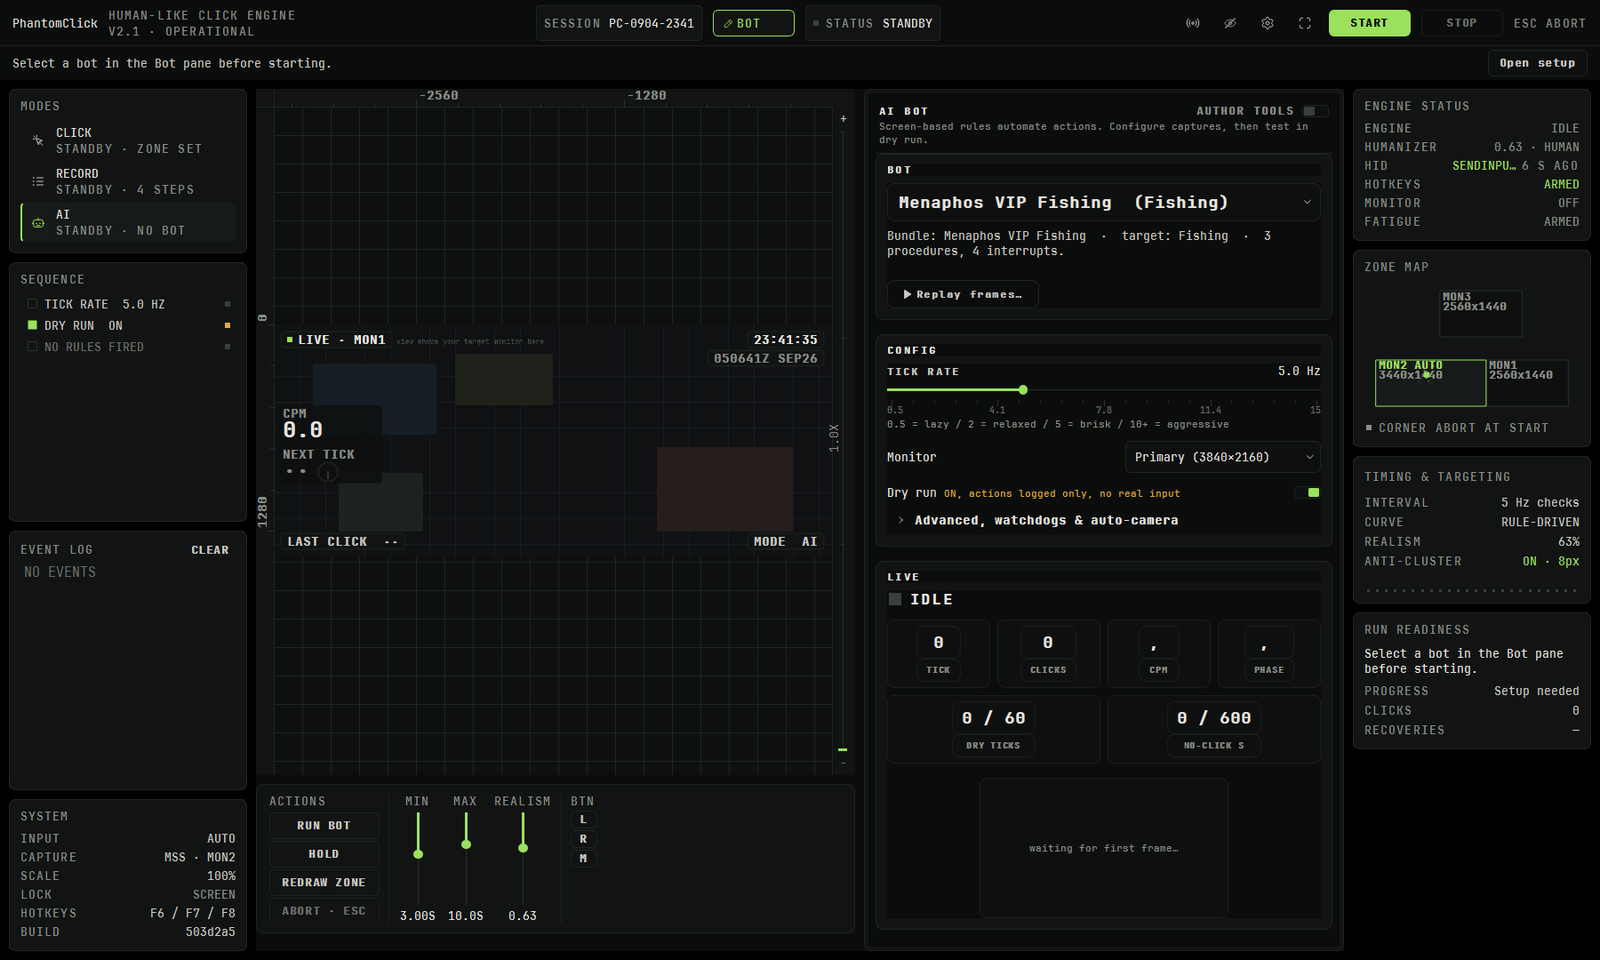
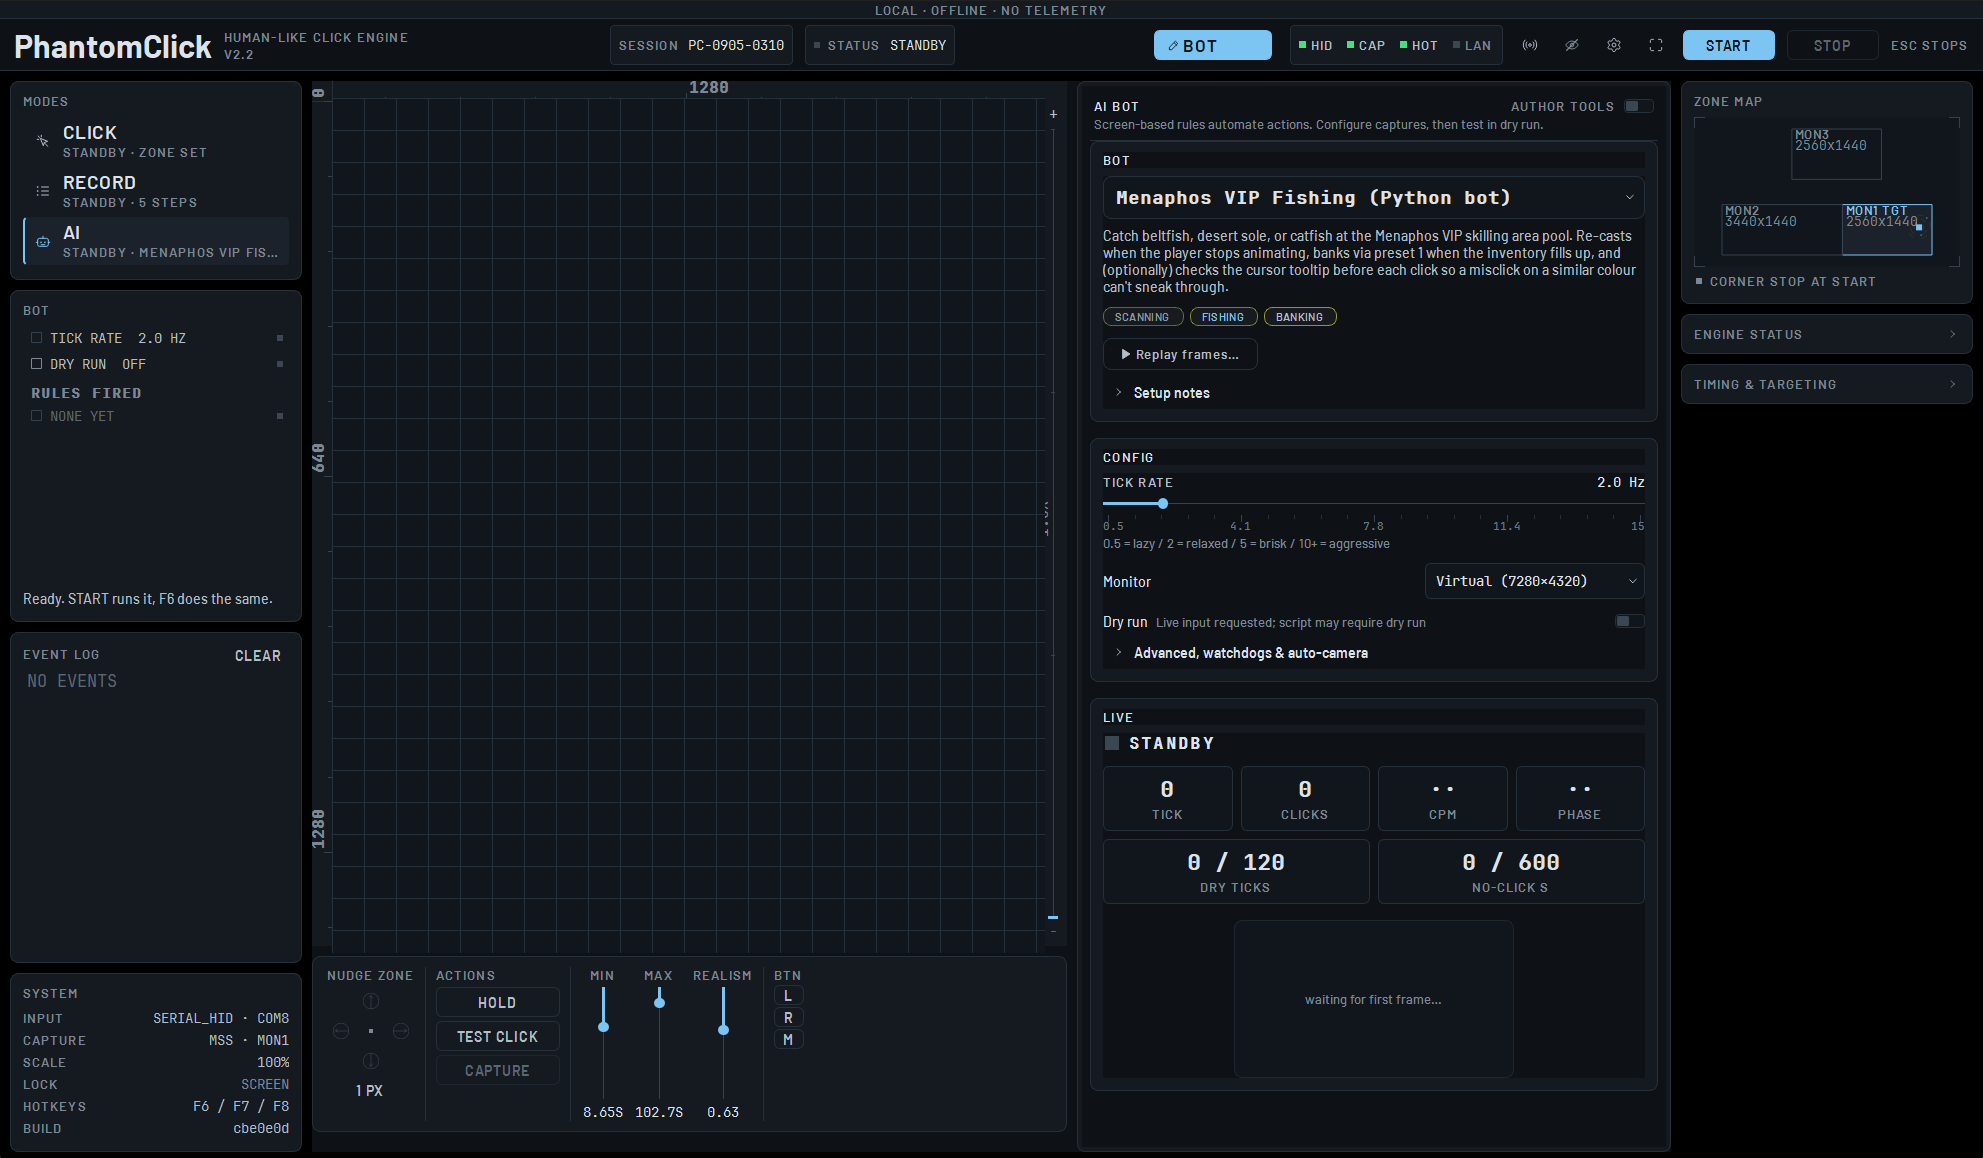
README screenshots on the slate theme
Click, Record and AI screens retaken on the current build: window-locked
zone with the picker, a five-step demo sequence, the bot page. The live
capture is blanked to a grid so no desktop content ships in the repo.
Captions use the deck's vocabulary (zone, wait, checklist).

Claude-Session: https://claude.ai/code/session_017FG8atX8edKrwrKJdk9yAP

diff --git a/README.md b/README.md
@@ -35,14 +35,16 @@ next to the exe, so put the file in a folder of its own.
 
 ## What it looks like
 
-The whole app is one screen. Modes on the left, the live view of your target
-monitor in the middle, the editor for the active mode on the right.
+The whole app is one screen. Modes and the checklist on the left, the live view
+of your target monitor in the middle, the editor for the active mode on the right,
+and the zone map and telemetry at the far right. The live view is blanked in
+these screenshots.
 
-**Click mode.** Draw an area on your screen, set the interval, press START.
+**Click mode.** Draw a zone on your screen, set the wait, test one click, press START. The zone can follow a window, and the LOCK row lists every open window so you can switch targets in one pick.
 
 ![Click mode](docs/screenshots/click.png)
 
-**Record mode.** Build a macro from steps: click areas, key presses, pauses,
+**Record mode.** Build a macro from steps: click zones, key presses, pauses,
 colour matches, tracked targets and loops. It runs top to bottom and repeats.
 It does not record your mouse; you place each step yourself.
 
